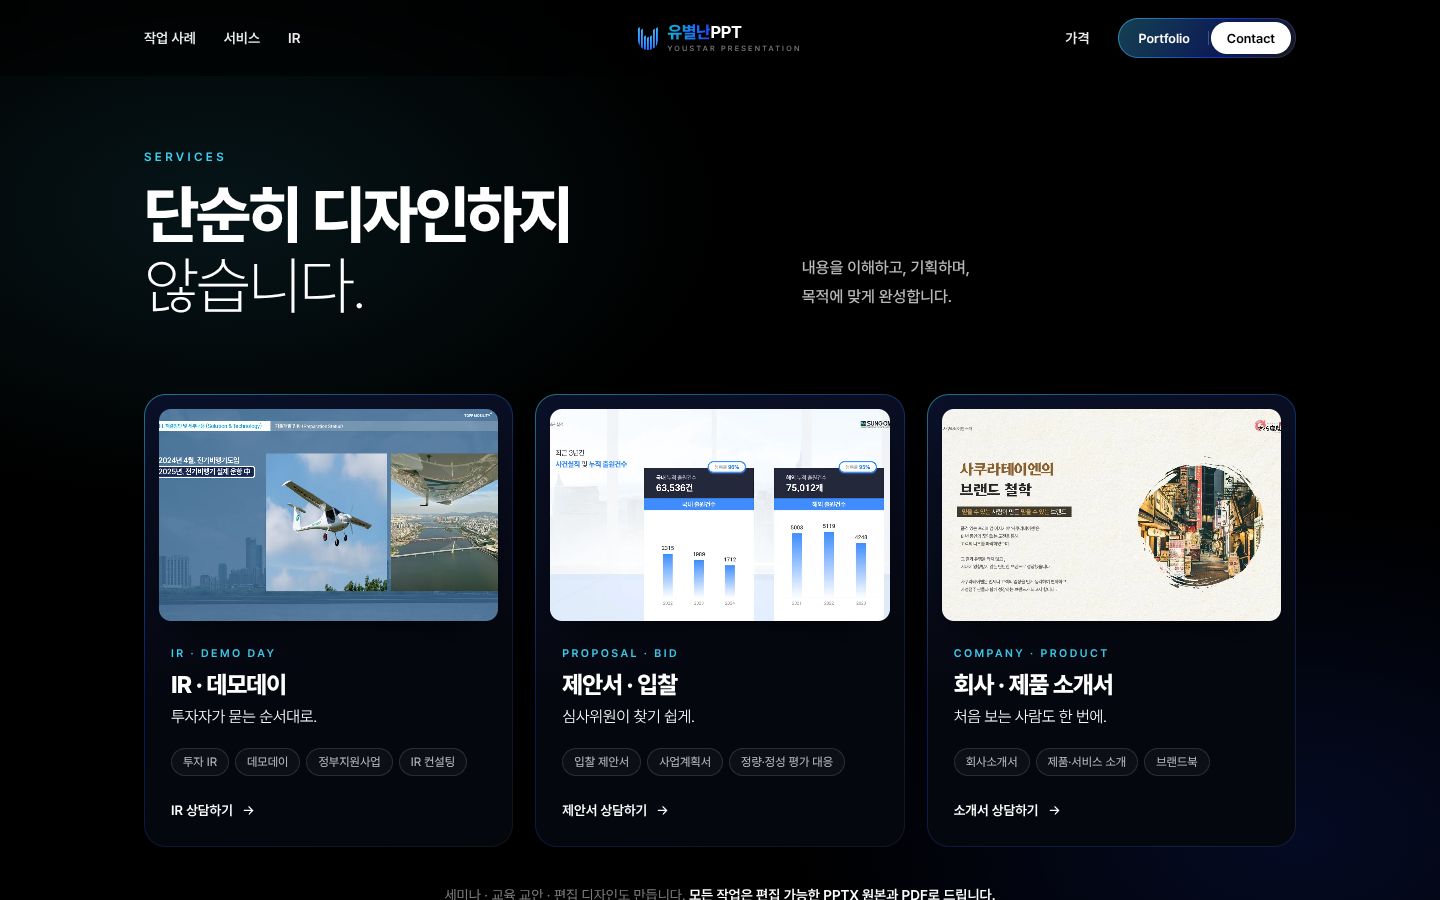
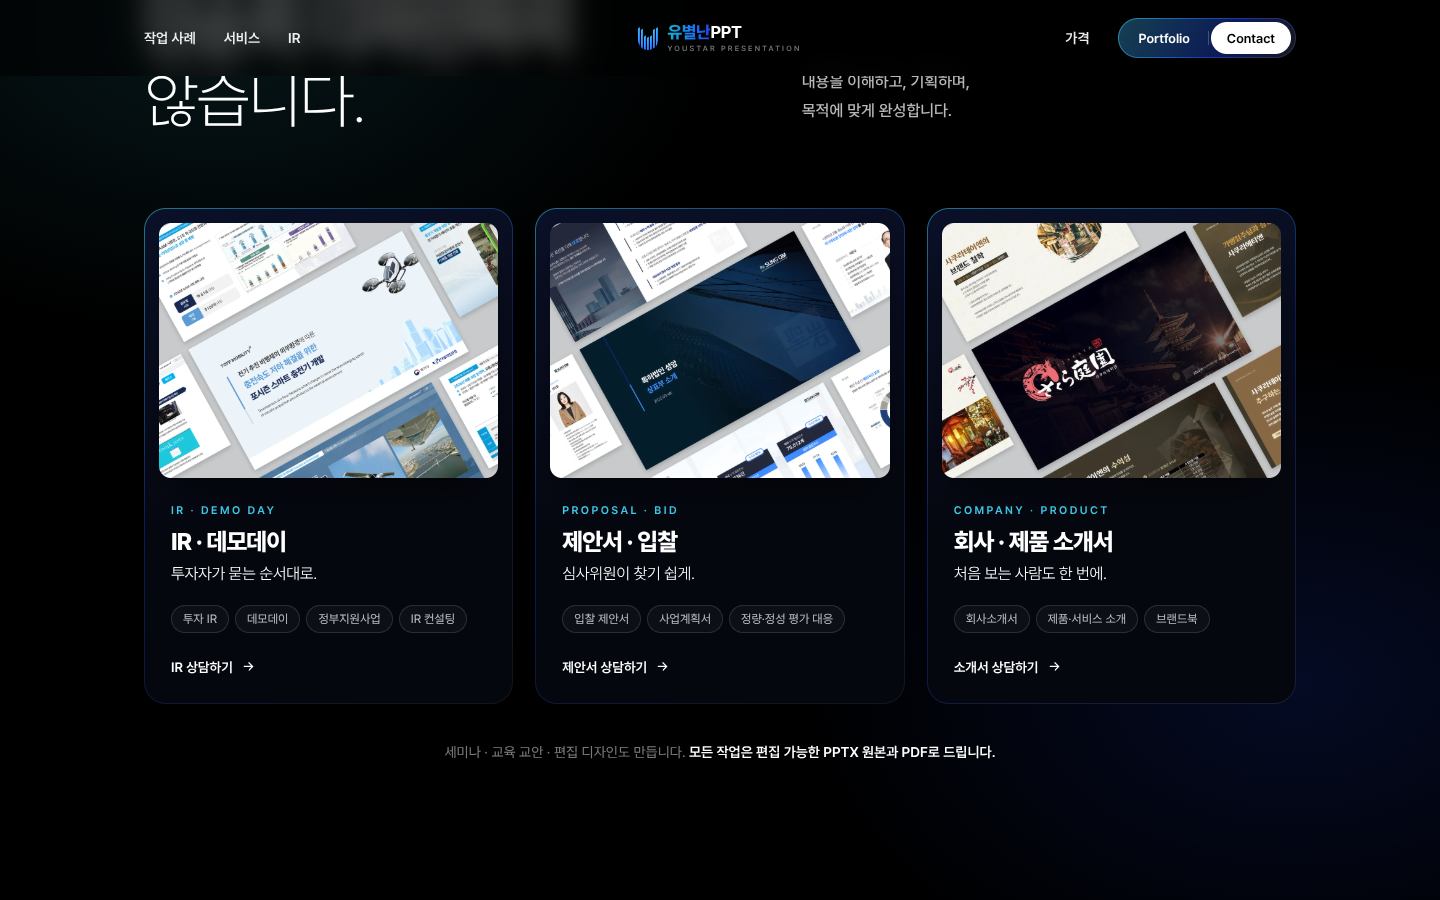
v2 services: use portfolio collage mockups on cards
Claude-Session: https://claude.ai/code/session_01NURhbB6Mq8R8WnaczfYj5a

diff --git a/redesign/v2/index.html b/redesign/v2/index.html
@@ -149,7 +149,7 @@ a{color:inherit;text-decoration:none}
 .card__in{position:relative;flex:1;display:flex;flex-direction:column;border-radius:21px;overflow:hidden;background:linear-gradient(170deg,#0a1028,#05070f 60%)}
 .card__in::after{content:"";position:absolute;inset:0;pointer-events:none;background:radial-gradient(420px circle at var(--mx,50%) var(--my,0%),rgba(120,200,255,.16),transparent 60%);opacity:0;transition:opacity .4s}
 .card:hover .card__in::after{opacity:1}
-.card__img{position:relative;aspect-ratio:16/10;margin:14px 14px 0;border-radius:12px;overflow:hidden;box-shadow:0 20px 40px -20px rgba(0,0,0,.9)}
+.card__img{position:relative;aspect-ratio:4/3;margin:14px 14px 0;border-radius:12px;overflow:hidden;box-shadow:0 20px 40px -20px rgba(0,0,0,.9)}
 .card__img img{width:100%;height:100%;object-fit:cover;display:block;transition:transform 1.2s var(--ease)}
 .card:hover .card__img img{transform:scale(1.05)}
 .card__body{padding:26px 26px 28px;display:flex;flex-direction:column;flex:1}
@@ -260,9 +260,9 @@ a{color:inherit;text-decoration:none}
       <p>내용을 이해하고, 기획하며,<br>목적에 맞게 완성합니다.</p>
     </div>
     <div class="cards" id="cards">
-      <a class="card" href="#contact"><div class="card__in"><div class="card__img"><img src="assets/slides/svc-ir.webp" alt="토프모빌리티 사업계획 장표" loading="lazy"></div><div class="card__body"><i>IR · DEMO DAY</i><h3>IR · 데모데이</h3><p>투자자가 묻는 순서대로.</p><ul><li>투자 IR</li><li>데모데이</li><li>정부지원사업</li><li>IR 컨설팅</li></ul><span class="card__more">IR 상담하기<svg viewBox="0 0 24 24" fill="none" stroke="currentColor" stroke-width="2" stroke-linecap="round" stroke-linejoin="round"><path d="M5 12h14M13 6l6 6-6 6"/></svg></span></div></div></a>
-      <a class="card" href="#contact"><div class="card__in"><div class="card__img"><img src="assets/slides/svc-prop.webp" alt="특허법인 성암 실적 장표" loading="lazy"></div><div class="card__body"><i>PROPOSAL · BID</i><h3>제안서 · 입찰</h3><p>심사위원이 찾기 쉽게.</p><ul><li>입찰 제안서</li><li>사업계획서</li><li>정량·정성 평가 대응</li></ul><span class="card__more">제안서 상담하기<svg viewBox="0 0 24 24" fill="none" stroke="currentColor" stroke-width="2" stroke-linecap="round" stroke-linejoin="round"><path d="M5 12h14M13 6l6 6-6 6"/></svg></span></div></div></a>
-      <a class="card" href="#contact"><div class="card__in"><div class="card__img"><img src="assets/slides/svc-intro.webp" alt="사쿠라테이엔 브랜드 소개 장표" loading="lazy"></div><div class="card__body"><i>COMPANY · PRODUCT</i><h3>회사 · 제품 소개서</h3><p>처음 보는 사람도 한 번에.</p><ul><li>회사소개서</li><li>제품·서비스 소개</li><li>브랜드북</li></ul><span class="card__more">소개서 상담하기<svg viewBox="0 0 24 24" fill="none" stroke="currentColor" stroke-width="2" stroke-linecap="round" stroke-linejoin="round"><path d="M5 12h14M13 6l6 6-6 6"/></svg></span></div></div></a>
+      <a class="card" href="#contact"><div class="card__in"><div class="card__img"><img src="assets/slides/svc-ir.webp" alt="토프모빌리티 사업계획 장표 목업" loading="lazy"></div><div class="card__body"><i>IR · DEMO DAY</i><h3>IR · 데모데이</h3><p>투자자가 묻는 순서대로.</p><ul><li>투자 IR</li><li>데모데이</li><li>정부지원사업</li><li>IR 컨설팅</li></ul><span class="card__more">IR 상담하기<svg viewBox="0 0 24 24" fill="none" stroke="currentColor" stroke-width="2" stroke-linecap="round" stroke-linejoin="round"><path d="M5 12h14M13 6l6 6-6 6"/></svg></span></div></div></a>
+      <a class="card" href="#contact"><div class="card__in"><div class="card__img"><img src="assets/slides/svc-prop.webp" alt="특허법인 성암 회사소개 장표 목업" loading="lazy"></div><div class="card__body"><i>PROPOSAL · BID</i><h3>제안서 · 입찰</h3><p>심사위원이 찾기 쉽게.</p><ul><li>입찰 제안서</li><li>사업계획서</li><li>정량·정성 평가 대응</li></ul><span class="card__more">제안서 상담하기<svg viewBox="0 0 24 24" fill="none" stroke="currentColor" stroke-width="2" stroke-linecap="round" stroke-linejoin="round"><path d="M5 12h14M13 6l6 6-6 6"/></svg></span></div></div></a>
+      <a class="card" href="#contact"><div class="card__in"><div class="card__img"><img src="assets/slides/svc-intro.webp" alt="사쿠라테이엔 브랜드 소개 장표 목업" loading="lazy"></div><div class="card__body"><i>COMPANY · PRODUCT</i><h3>회사 · 제품 소개서</h3><p>처음 보는 사람도 한 번에.</p><ul><li>회사소개서</li><li>제품·서비스 소개</li><li>브랜드북</li></ul><span class="card__more">소개서 상담하기<svg viewBox="0 0 24 24" fill="none" stroke="currentColor" stroke-width="2" stroke-linecap="round" stroke-linejoin="round"><path d="M5 12h14M13 6l6 6-6 6"/></svg></span></div></div></a>
     </div>
     <p class="svc__foot">세미나 · 교육 교안 · 편집 디자인도 만듭니다. <b>모든 작업은 편집 가능한 PPTX 원본과 PDF로 드립니다.</b></p>
   </div>
